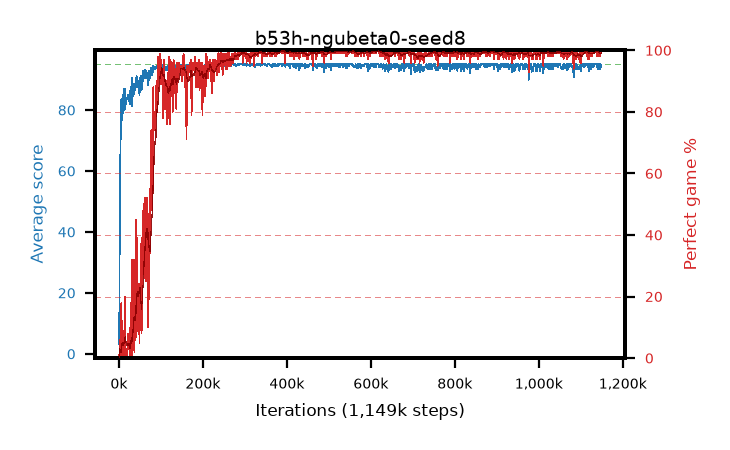
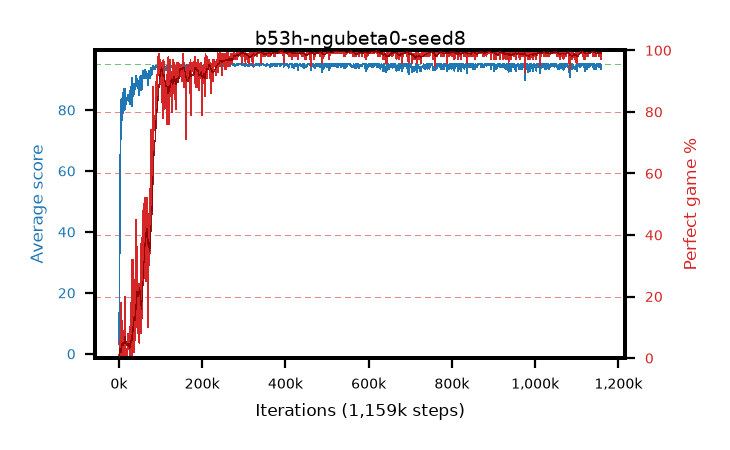
live pictures of 4 arm(s)

diff --git a/results/b53f-ngubeta0-seed6/b53f-ngubeta0-seed6.md b/results/b53f-ngubeta0-seed6/b53f-ngubeta0-seed6.md
@@ -1,6 +1,6 @@
 # b53f-ngubeta0-seed6
 
-step **1,129,000** · 1129 evals · trailing **94.55** · peak **94.99** @323,000 · sef **88.0** · best30 **99.8** @323,000
+step **1,139,000** · 1139 evals · trailing **94.42** · peak **94.99** @323,000 · sef **88.1** · best30 **99.8** @323,000
 
 ## Config
 
@@ -80,15 +80,15 @@ step **1,129,000** · 1129 evals · trailing **94.55** · peak **94.99** @323,00
 | 2000 | 35.17 | 18.16 | 10.0 | 67.0 | 29.965 | 0.0 | 0.4 |
 | 3000 | 47.63 | 27.98 | 1.0 | 93.0 | 42.642 | 0.0 | 0.4 |
 | ... | ... | ... | ... | ... | ... | ... | ... |
-| 1118000 | 94.26 | 94.44 | 21.0 | 95.0 | 192.011 | 99.0 | 0.4 |
-| 1119000 | 95.0 | 94.45 | 95.0 | 95.0 | 193.783 | 100.0 | 0.4 |
-| 1120000 | 95.0 | 94.45 | 95.0 | 95.0 | 193.785 | 100.0 | 0.4 |
-| 1121000 | 94.26 | 94.45 | 21.0 | 95.0 | 192.003 | 99.0 | 0.4 |
-| 1122000 | 94.26 | 94.47 | 21.0 | 95.0 | 192.004 | 99.0 | 0.4 |
-| 1123000 | 95.0 | 94.47 | 95.0 | 95.0 | 193.776 | 100.0 | 0.4 |
-| 1124000 | 95.0 | 94.55 | 95.0 | 95.0 | 193.782 | 100.0 | 0.4 |
-| 1125000 | 93.72 | 94.53 | 28.0 | 95.0 | 190.431 | 98.0 | 0.4 |
-| 1126000 | 95.0 | 94.53 | 95.0 | 95.0 | 193.774 | 100.0 | 0.4 |
-| 1127000 | 94.97 | 94.57 | 92.0 | 95.0 | 192.714 | 99.0 | 0.4 |
 | 1128000 | 94.25 | 94.55 | 20.0 | 95.0 | 191.993 | 99.0 | 0.4 |
 | 1129000 | 95.0 | 94.55 | 95.0 | 95.0 | 193.783 | 100.0 | 0.4 |
+| 1130000 | 93.47 | 94.5 | 16.0 | 95.0 | 190.174 | 98.0 | 0.4 |
+| 1131000 | 95.0 | 94.5 | 95.0 | 95.0 | 193.773 | 100.0 | 0.4 |
+| 1132000 | 94.85 | 94.61 | 80.0 | 95.0 | 192.634 | 99.0 | 0.4 |
+| 1133000 | 93.41 | 94.56 | 6.0 | 95.0 | 190.116 | 98.0 | 0.4 |
+| 1134000 | 94.23 | 94.56 | 18.0 | 95.0 | 191.971 | 99.0 | 0.4 |
+| 1135000 | 94.23 | 94.54 | 18.0 | 95.0 | 191.973 | 99.0 | 0.4 |
+| 1136000 | 94.12 | 94.51 | 23.0 | 95.0 | 190.821 | 98.0 | 0.4 |
+| 1137000 | 92.75 | 94.43 | 19.0 | 95.0 | 188.418 | 97.0 | 0.4 |
+| 1138000 | 94.32 | 94.41 | 30.0 | 95.0 | 191.064 | 98.0 | 0.4 |
+| 1139000 | 94.16 | 94.42 | 11.0 | 95.0 | 191.907 | 99.0 | 0.4 |

diff --git a/results/b53h-ngubeta0-seed8/b53h-ngubeta0-seed8.md b/results/b53h-ngubeta0-seed8/b53h-ngubeta0-seed8.md
@@ -1,6 +1,6 @@
 # b53h-ngubeta0-seed8
 
-step **1,149,000** · 1149 evals · trailing **94.51** · peak **94.92** @356,000 · sef **91.8** · best30 **99.7** @539,000
+step **1,159,000** · 1159 evals · trailing **94.61** · peak **94.92** @356,000 · sef **91.9** · best30 **99.7** @539,000
 
 ## Config
 
@@ -80,15 +80,15 @@ step **1,149,000** · 1149 evals · trailing **94.51** · peak **94.92** @356,00
 | 2000 | 50.19 | 26.7 | 2.0 | 95.0 | 51.185 | 6.0 | 0.4 |
 | 3000 | 57.71 | 37.03 | 27.0 | 95.0 | 54.481 | 2.0 | 0.4 |
 | ... | ... | ... | ... | ... | ... | ... | ... |
-| 1138000 | 94.29 | 94.62 | 24.0 | 95.0 | 192.033 | 99.0 | 0.4 |
-| 1139000 | 94.23 | 94.6 | 19.0 | 95.0 | 190.924 | 98.0 | 0.4 |
-| 1140000 | 95.0 | 94.6 | 95.0 | 95.0 | 193.779 | 100.0 | 0.4 |
-| 1141000 | 94.99 | 94.62 | 94.0 | 95.0 | 192.731 | 99.0 | 0.4 |
-| 1142000 | 93.39 | 94.57 | 10.0 | 95.0 | 190.091 | 98.0 | 0.4 |
-| 1143000 | 95.0 | 94.57 | 95.0 | 95.0 | 193.783 | 100.0 | 0.4 |
-| 1144000 | 94.3 | 94.54 | 25.0 | 95.0 | 192.038 | 99.0 | 0.4 |
-| 1145000 | 94.95 | 94.55 | 90.0 | 95.0 | 192.723 | 99.0 | 0.4 |
-| 1146000 | 93.51 | 94.5 | 19.0 | 95.0 | 190.21 | 98.0 | 0.4 |
-| 1147000 | 95.0 | 94.53 | 95.0 | 95.0 | 193.775 | 100.0 | 0.4 |
 | 1148000 | 94.31 | 94.51 | 26.0 | 95.0 | 192.054 | 99.0 | 0.4 |
 | 1149000 | 94.26 | 94.51 | 21.0 | 95.0 | 192.004 | 99.0 | 0.4 |
+| 1150000 | 95.0 | 94.59 | 95.0 | 95.0 | 193.782 | 100.0 | 0.4 |
+| 1151000 | 94.33 | 94.57 | 28.0 | 95.0 | 192.061 | 99.0 | 0.4 |
+| 1152000 | 95.0 | 94.59 | 95.0 | 95.0 | 193.774 | 100.0 | 0.4 |
+| 1153000 | 94.95 | 94.62 | 90.0 | 95.0 | 192.731 | 99.0 | 0.4 |
+| 1154000 | 94.1 | 94.59 | 16.0 | 95.0 | 190.842 | 98.0 | 0.4 |
+| 1155000 | 95.0 | 94.64 | 95.0 | 95.0 | 193.781 | 100.0 | 0.4 |
+| 1156000 | 95.0 | 94.64 | 95.0 | 95.0 | 193.782 | 100.0 | 0.4 |
+| 1157000 | 95.0 | 94.67 | 95.0 | 95.0 | 193.774 | 100.0 | 0.4 |
+| 1158000 | 93.44 | 94.62 | 23.0 | 95.0 | 189.101 | 97.0 | 0.4 |
+| 1159000 | 94.87 | 94.61 | 85.0 | 95.0 | 191.648 | 98.0 | 0.4 |
